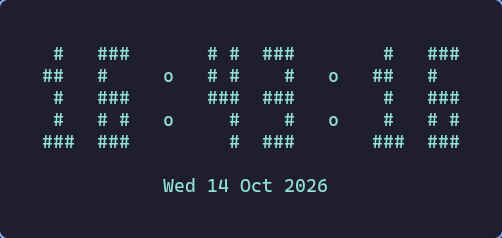
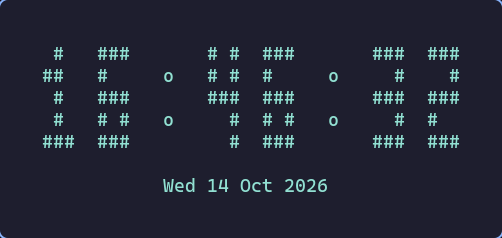
Slim font: draw 0 and 8 with the same # pixels as the other digits

diff --git a/cliclock/render.py b/cliclock/render.py
@@ -54,9 +54,7 @@ def _block_font() -> dict[str, tuple[str, ...]]:
 
 def _slim_font() -> dict[str, tuple[str, ...]]:
     font = {ch: _paint(rows, "#", " ") for ch, rows in _BITMAPS.items()}
-    # Slim uses ASCII line-art touches so it reads differently from block.
-    font["0"] = (" _ ", "| |", "| |", "| |", "|_|")
-    font["8"] = (" _ ", "|_|", "|_|", "| |", "|_|")
+    # Slim paints single "#" pixels; only the separators use "o" dots.
     font[":"] = ("   ", " o ", "   ", " o ", "   ")
     font[" "] = ("   ",) * 5
     font["."] = ("   ", "   ", "   ", " o ", "   ")

diff --git a/README.md b/README.md
@@ -123,7 +123,7 @@ Precedence: defaults < config file < `--set`. Invalid values, unknown keys and m
 
 ### Digit fonts
 
-Selected with `digit_style`: `block` is big 5-row digits drawn with `██`; `slim` is narrow 5-row ASCII digits (`|`, `_`, `#`, `o`); `thin` is compact 3-row box-drawing digits; `led` is a dot matrix (`●` lit, `·` unlit); `ghost` is `▓` digits over a faint `░` background; `tall` is large 7-row digits, 5 columns wide per glyph.
+Selected with `digit_style`: `block` is big 5-row digits drawn with `██`; `slim` is narrow 5-row ASCII digits (`#`, with `o` dots as the separator); `thin` is compact 3-row box-drawing digits; `led` is a dot matrix (`●` lit, `·` unlit); `ghost` is `▓` digits over a faint `░` background; `tall` is large 7-row digits, 5 columns wide per glyph.
 
 ## Hot reload
 
